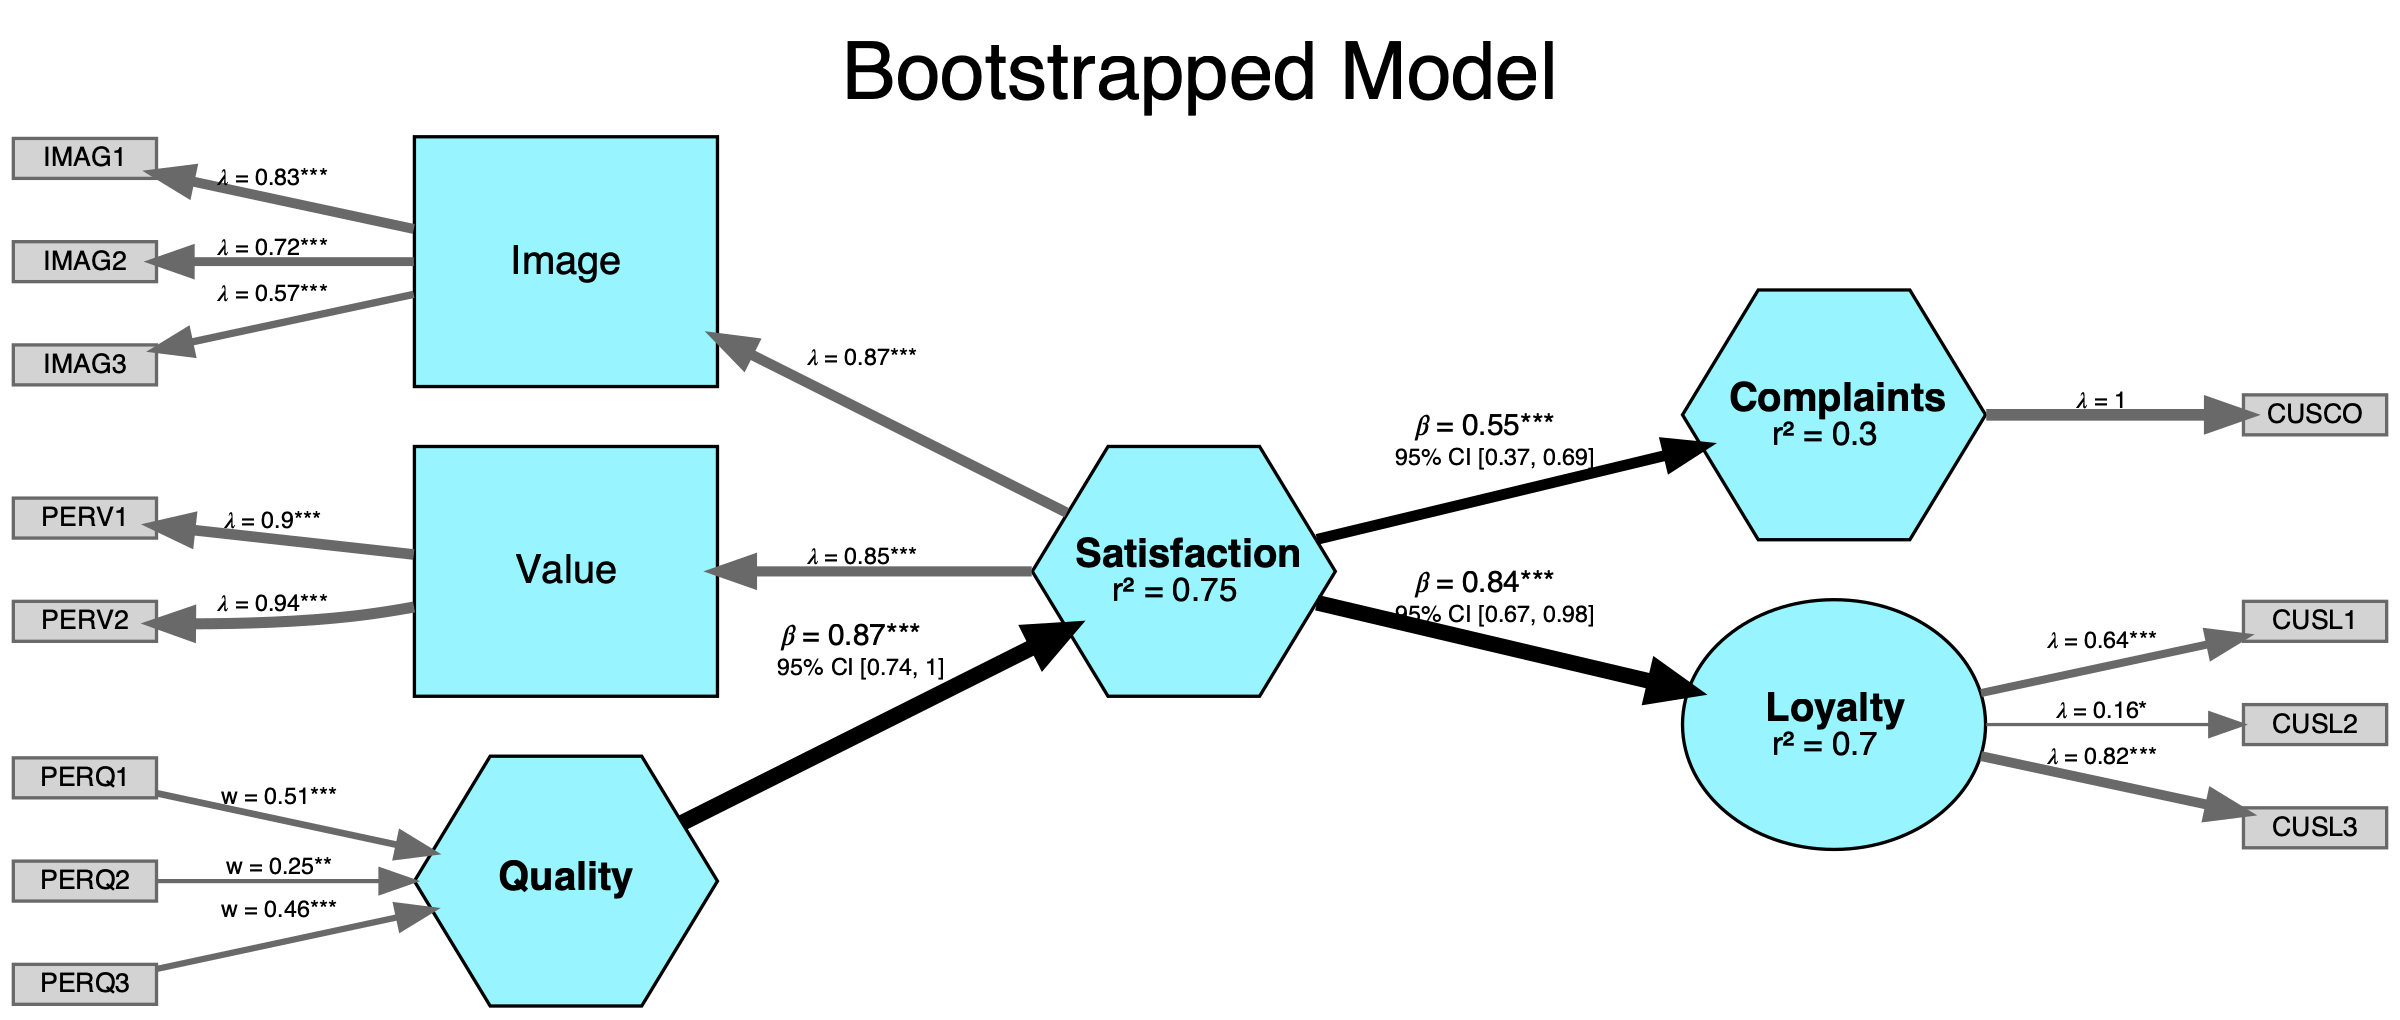
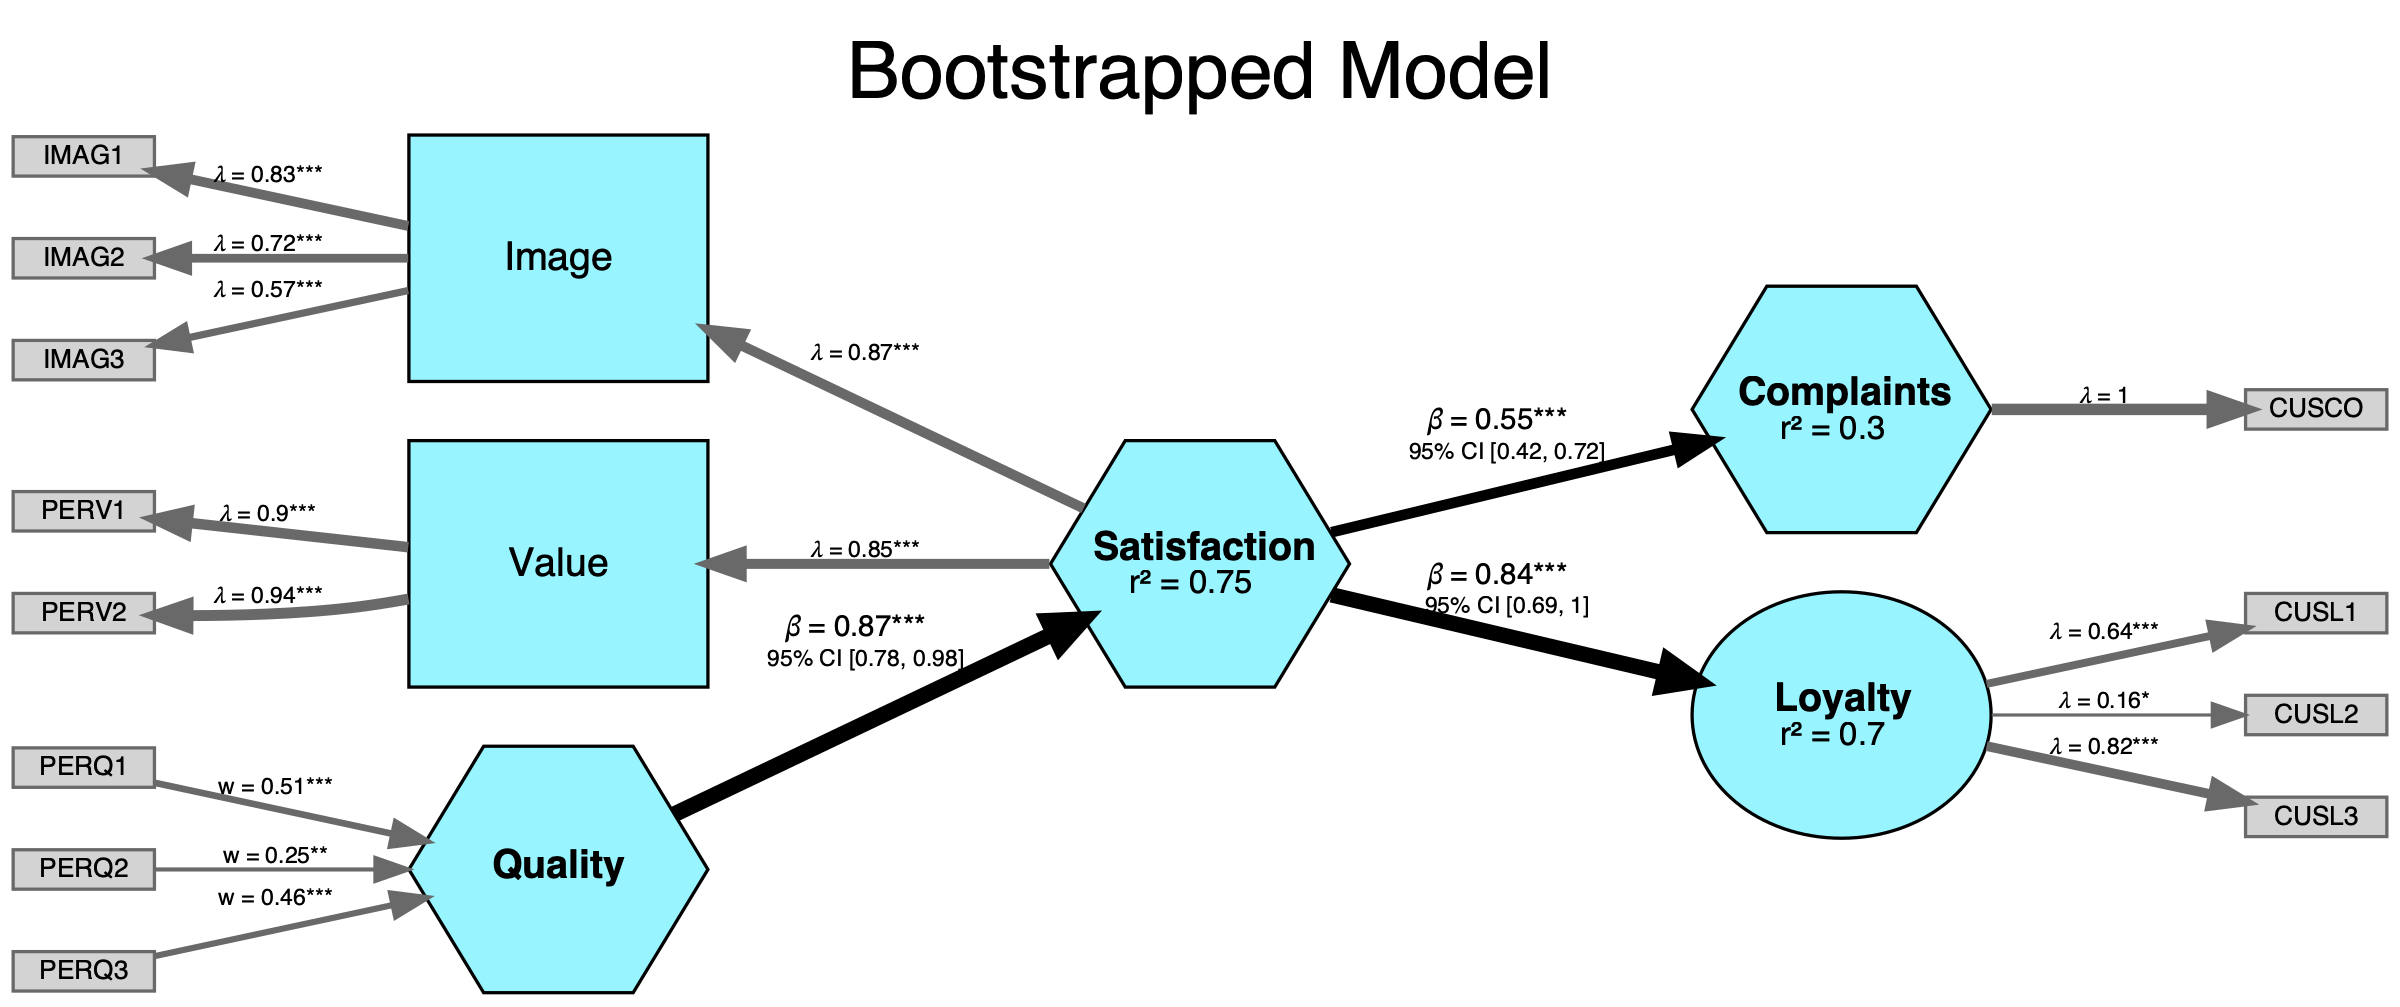
version 2.3.4

diff --git a/inst/doc/SEMinR.html b/inst/doc/SEMinR.html
@@ -298,17 +298,23 @@ overflow-y: auto;
 border: 1px solid #ddd;
 border-radius: 4px;
 }
-.tabset-dropdown > .nav-tabs > li.active:before, .tabset-dropdown > .nav-tabs.nav-tabs-open:before {
-content: "\e259";
+.tabset-dropdown > .nav-tabs > li.active:before {
+content: "";
 font-family: 'Glyphicons Halflings';
 display: inline-block;
 padding: 10px;
 border-right: 1px solid #ddd;
 }
 .tabset-dropdown > .nav-tabs.nav-tabs-open > li.active:before {
-content: "\e258";
-font-family: 'Glyphicons Halflings';
+content: "";
 border: none;
+}
+.tabset-dropdown > .nav-tabs.nav-tabs-open:before {
+content: "";
+font-family: 'Glyphicons Halflings';
+display: inline-block;
+padding: 10px;
+border-right: 1px solid #ddd;
 }
 .tabset-dropdown > .nav-tabs > li.active {
 display: block;
@@ -548,8 +554,8 @@ to the mobile phone market (Tenenhaus et al. 2005).</p>
 <p>You can see a description and sample of what is in
 <code>mobi</code>:</p>
 <pre class="r"><code>dim(mobi)
-#&gt; [1] 250  24</code></pre>
-<pre class="r"><code>head(mobi)
+#&gt; [1] 250  24
+head(mobi)
 #&gt;   CUEX1 CUEX2 CUEX3 CUSA1 CUSA2 CUSA3 CUSCO CUSL1 CUSL2 CUSL3 IMAG1 IMAG2 IMAG3
 #&gt; 1     7     7     6     6     4     7     7     6     5     6     7     5     5
 #&gt; 2    10    10     9    10    10     8    10    10     2    10    10     9    10
@@ -852,14 +858,14 @@ mobi_pls &lt;- estimate_pls(
   inner_weights = path_weighting
 )
 #&gt; Generating the seminr model
-#&gt; All 250 observations are valid.</code></pre>
-<pre class="r"><code>
+#&gt; All 250 observations are valid.
+
 mobi_cfa &lt;- estimate_cfa(
   data = mobi,
   measurement_model = as.reflective(mobi_mm)
 )
-#&gt; Generating the seminr model for CFA</code></pre>
-<pre class="r"><code>
+#&gt; Generating the seminr model for CFA
+
 mobi_cbsem &lt;- estimate_cbsem(
   data = mobi,
   measurement_model = as.reflective(mobi_mm),
@@ -963,7 +969,7 @@ and <span class="math inline">\(rho_{A}\)</span> (Dijkstra and Henseler
 </ol>
 <pre class="r"><code>summary(mobi_pls)
 #&gt; 
-#&gt; Results from  package seminr (2.3.3)
+#&gt; Results from  package seminr (2.3.4)
 #&gt; 
 #&gt; Path Coefficients:
 #&gt;                   Satisfaction
@@ -1122,13 +1128,13 @@ mobi_pls &lt;- estimate_pls(data = mobi,
                         measurement_model = mobi_mm,
                         structural_model = mobi_sm)
 #&gt; Generating the seminr model
-#&gt; All 250 observations are valid.</code></pre>
-<pre class="r"><code># Load data, assemble model, and bootstrap
+#&gt; All 250 observations are valid.
+# Load data, assemble model, and bootstrap
 boot_seminr_model &lt;- bootstrap_model(seminr_model = mobi_pls,
                                     nboot = 50, cores = 2, seed = NULL)
 #&gt; Bootstrapping model using seminr...
-#&gt; SEMinR Model successfully bootstrapped</code></pre>
-<pre class="r"><code>
+#&gt; SEMinR Model successfully bootstrapped
+
 # Calculate the 5% confidence interval for mediated path Image -&gt; Expectation -&gt; Satisfaction
 specific_effect_significance(boot_seminr_model = boot_seminr_model,
                              from = &quot;Image&quot;,
@@ -1136,19 +1142,19 @@ specific_effect_significance(boot_seminr_model = boot_seminr_model,
                              to = &quot;Complaints&quot;,
                              alpha = 0.05)
 #&gt;  Original Est. Bootstrap Mean   Bootstrap SD        T Stat.        2.5% CI 
-#&gt;    0.016670348    0.014922208    0.012477160    1.336069062   -0.007155839 
+#&gt;     0.01667035     0.01349090     0.01242057     1.34215596    -0.01805218 
 #&gt;       97.5% CI 
-#&gt;    0.035282514</code></pre>
-<pre class="r"><code>
+#&gt;     0.03622357
+
 # Calculate the 10% confidence interval for direct path Image -&gt; Satisfaction
 specific_effect_significance(boot_seminr_model = boot_seminr_model,
                              from = &quot;Image&quot;,
                              to = &quot;Satisfaction&quot;,
                              alpha = 0.10)
 #&gt;  Original Est. Bootstrap Mean   Bootstrap SD        T Stat.          5% CI 
-#&gt;      0.1787395      0.1909208      0.0459302      3.8915460      0.1120980 
+#&gt;     0.17873950     0.19345437     0.05056609     3.53476991     0.12213413 
 #&gt;         95% CI 
-#&gt;      0.2493507</code></pre>
+#&gt;     0.28424520</code></pre>
 </div>
 <div id="reporting-data-descriptive-statistics-and-construct-descriptive-statistics" class="section level2">
 <h2>Reporting data descriptive statistics and construct descriptive
@@ -1193,8 +1199,8 @@ pls_model &lt;- estimate_pls(
 #&gt; Generating the seminr model
 #&gt; Generating the seminr model
 #&gt; All 250 observations are valid.
-#&gt; All 250 observations are valid.</code></pre>
-<pre class="r"><code>boot_estimates &lt;- bootstrap_model(pls_model, nboot = 100, cores = 1)
+#&gt; All 250 observations are valid.
+boot_estimates &lt;- bootstrap_model(pls_model, nboot = 100, cores = 1)
 #&gt; Bootstrapping model using seminr...
 #&gt; SEMinR Model successfully bootstrapped</code></pre>
 <p>When we have a model, we can plot it and save the plot to a file.</p>

diff --git a/README.md b/README.md
@@ -5,7 +5,7 @@
 
 <!-- ![Build Status](https://travis-ci.org/sem-in-r/seminr.svg?branch=master) -->
 
-[![CRAN\_Status\_Badge](https://www.r-pkg.org/badges/version/seminr)](https://cran.r-project.org/package=seminr)
+[![CRAN_Status_Badge](https://www.r-pkg.org/badges/version/seminr)](https://cran.r-project.org/package=seminr)
 [![metacran
 downloads](https://cranlogs.r-pkg.org/badges/grand-total/seminr)](https://cran.r-project.org/package=seminr)
 
@@ -14,24 +14,24 @@ models (SEM). It allows estimation using either covariance-based SEM
 (CBSEM, such as LISREL/Lavaan), or Partial Least Squares Path Modeling
 (PLS-PM, such as SmartPLS/semPLS).
 
--   [First Look](#first-look)
--   [Installation](#installation)
--   [Usage and Examples](#usage-and-examples)
--   [Documentation](#documentation)
--   [Partner Projects](#partner-projects)
--   [Contact Us](#contact-us)
--   [About Us](#about-us)
+- [First Look](#first-look)
+- [Installation](#installation)
+- [Usage and Examples](#usage-and-examples)
+- [Documentation](#documentation)
+- [Partner Projects](#partner-projects)
+- [Contact Us](#contact-us)
+- [About Us](#about-us)
 
 ## First Look
 
 Main features of using SEMinR:
 
--   A *natural* feeling, *domain-specific* language to build and
-    estimate SEMs in R
--   *High-level functions* to quickly specify interactions and
-    complicated structural models
--   *Modular design* of models that promotes reuse of model components
--   Encourages *best practices* by use of smart defaults and warnings
+- A *natural* feeling, *domain-specific* language to build and estimate
+  SEMs in R
+- *High-level functions* to quickly specify interactions and complicated
+  structural models
+- *Modular design* of models that promotes reuse of model components
+- Encourages *best practices* by use of smart defaults and warnings
 
 Take a look at the easy syntax and modular design:
 
@@ -71,29 +71,28 @@ save_plot("myfigure.pdf")
 
 SEMinR allows various estimation methods for constructs and SEMs:
 
--   Covariance-based Structural Equation Modeling (CBSEM)
-    -   *Covariance-based estimation* of SEM using the popular
-        [Lavaan](https://github.com/yrosseel/lavaan) package
-    -   Currently supports mediation and moderation models with
-        constructs
-    -   Easily *specify interactions* between constructs
-    -   Adds ten Berge *factor score extraction* to get same correlation
-        patterns as latent factors
-    -   Adds *VIF* and other validity assessments
--   Confirmatory Factor Analysis (CFA) using Lavaan
-    -   Uses [Lavaan](https://github.com/yrosseel/lavaan) package and
-        returns results and syntax
-    -   Adds ten Berge *factor score extraction* to get same correlation
-        patterns as latent factors
--   Partial Least Squares Path Modeling (PLS-PM)
-    -   Uses non-parametric *variance-based estimation* to construct
-        *composites* and *common-factors*
-    -   Automatically *estimates using Consistent PLS (PLSc)* when
-        emulating reflective common factors
-    -   Adjusts for known biases in interaction terms in PLS models
-    -   Continuously tested against leading PLS-PM software to ensure
-        parity of outcomes: SmartPLS, ADANCO, semPLS, and matrixpls
-    -   *High performance, multi-core* bootstrapping function
+- Covariance-based Structural Equation Modeling (CBSEM)
+  - *Covariance-based estimation* of SEM using the popular
+    [Lavaan](https://github.com/yrosseel/lavaan) package
+  - Currently supports mediation and moderation models with constructs
+  - Easily *specify interactions* between constructs
+  - Adds ten Berge *factor score extraction* to get same correlation
+    patterns as latent factors
+  - Adds *VIF* and other validity assessments
+- Confirmatory Factor Analysis (CFA) using Lavaan
+  - Uses [Lavaan](https://github.com/yrosseel/lavaan) package and
+    returns results and syntax
+  - Adds ten Berge *factor score extraction* to get same correlation
+    patterns as latent factors
+- Partial Least Squares Path Modeling (PLS-PM)
+  - Uses non-parametric *variance-based estimation* to construct
+    *composites* and *common-factors*
+  - Automatically *estimates using Consistent PLS (PLSc)* when emulating
+    reflective common factors
+  - Adjusts for known biases in interaction terms in PLS models
+  - Continuously tested against leading PLS-PM software to ensure parity
+    of outcomes: SmartPLS, ADANCO, semPLS, and matrixpls
+  - *High performance, multi-core* bootstrapping function
 
 Researchers can now create a SEM and estimate it using different
 techniques (CBSEM, PLS-PM).
@@ -359,50 +358,50 @@ installation.
 
 Model Specification:
 
--   [seminr-cbsem-cfa-ecsi](demo/seminr-cbsem-cfa-ecsi.R): Conduct
-    confirmatory model building using CFA and CBSEM
--   [seminr-pls-ecsi](demo/seminr-pls-ecsi.R): Conduct PLS path modeling
--   [seminr-pls-interaction](demo/seminr-pls-interaction.R): Define
-    interactions between constructs in SEM models
--   [seminr-pls-higher\_order](demo/seminr-pls-higher_order.R): Define
-    higher-order composites for PLS models
--   [seminr-pls-mga](demo/seminr-pls-mga.R): Assess structural
-    differences between subgroups using PLS-MGA
--   [seminr-plsc-ecsi](demo/seminr-plsc-ecsi.R): Run PLSc to emulate
-    common factors using in PLSc
+- [seminr-cbsem-cfa-ecsi](demo/seminr-cbsem-cfa-ecsi.R): Conduct
+  confirmatory model building using CFA and CBSEM
+- [seminr-pls-ecsi](demo/seminr-pls-ecsi.R): Conduct PLS path modeling
+- [seminr-pls-interaction](demo/seminr-pls-interaction.R): Define
+  interactions between constructs in SEM models
+- [seminr-pls-higher_order](demo/seminr-pls-higher_order.R): Define
+  higher-order composites for PLS models
+- [seminr-pls-mga](demo/seminr-pls-mga.R): Assess structural differences
+  between subgroups using PLS-MGA
+- [seminr-plsc-ecsi](demo/seminr-plsc-ecsi.R): Run PLSc to emulate
+  common factors using in PLSc
 
 Model Visualization:
 
--   [seminr-dot-graph](demo/seminr-pls-dot-graph.R): Create a plot from
-    a SEM model
+- [seminr-dot-graph](demo/seminr-pls-dot-graph.R): Create a plot from a
+  SEM model
 
 Syntax Style:
 
--   [seminr-alternative-models](demo/seminr-alternative-models.R): Reuse
-    measurement and structural components in multiple models
--   [seminr-style-contained](demo/seminr-style-contained.R): Create and
-    execute a SEM model in one function call
+- [seminr-alternative-models](demo/seminr-alternative-models.R): Reuse
+  measurement and structural components in multiple models
+- [seminr-style-contained](demo/seminr-style-contained.R): Create and
+  execute a SEM model in one function call
 
 ## Sister Projects
 
--   [seminrstudio](https://github.com/sem-in-r/seminrstudio): A set of
-    addins for RStudio to simplify using SEMinR.
+- [seminrstudio](https://github.com/sem-in-r/seminrstudio): A set of
+  addins for RStudio to simplify using SEMinR.
 
 ## Partner Projects
 
 We communicate and collaborate with several other open-source projects
 on SEM related issues.
 
--   [plspm package for R](https://github.com/gastonstat/plspm): an early
-    and limited PLS path modeling package for R that inspired the
-    development of SEMinR, among others; it is no longer maintained.
--   [plspm package for
-    Python](https://github.com/GoogleCloudPlatform/plspm-python): a
-    well-maintained PLS modeling pakage for Python; it is tested against
-    SEMinR and borrows some syntactic ideas from SEMinR.
--   [cSEM](https://github.com/FloSchuberth/cSEM): a well-maintained and
-    comprehensive composite analysis project implementing PLS and GSCA
-    for R, using Lavaan style syntax
+- [plspm package for R](https://github.com/gastonstat/plspm): an early
+  and limited PLS path modeling package for R that inspired the
+  development of SEMinR, among others; it is no longer maintained.
+- [plspm package for
+  Python](https://github.com/GoogleCloudPlatform/plspm-python): a
+  well-maintained PLS modeling pakage for Python; it is tested against
+  SEMinR and borrows some syntactic ideas from SEMinR.
+- [cSEM](https://github.com/FloSchuberth/cSEM): a well-maintained and
+  comprehensive composite analysis project implementing PLS and GSCA for
+  R, using Lavaan style syntax
 
 ## Contact Us
 
@@ -420,19 +419,20 @@ features for consideration.
 
 Primary Authors:
 
--   [Soumya Ray](https://soumyaray.com)
--   [Nicholas Danks](https://nicholasdanks.com)
--   [André Calero Valdez](https://calerovaldez.com/)
+- [Soumya Ray](https://soumyaray.com)
+- [Nicholas
+  Danks](https://www.tcd.ie/business/people/faculty-professors/danksn/)
+- [André Calero Valdez](https://calerovaldez.com/)
 
 Key Contributors:
 
--   [James Uanhoro](https://www.jamesuanhoro.com/) (ten Berge factor
-    extraction, advice on covariance-based methods)
--   [Arturo Heynar Cano
-    Bejar](https://www.iss.nthu.edu.tw/PhD/PhD-Students/arturo-h-cano-bejar)
-    (evaluation and testing of PLS and CBSEM models)
--   [Johannes Nakayama](https://github.com/JohannesNakayama)
-    (contributions to the model visualization functionality)
+- [James Uanhoro](https://www.jamesuanhoro.com/) (ten Berge factor
+  extraction, advice on covariance-based methods)
+- [Arturo Heynar Cano
+  Bejar](https://www.iss.nthu.edu.tw/PhD/PhD-Students/arturo-h-cano-bejar)
+  (evaluation and testing of PLS and CBSEM models)
+- [Johannes Nakayama](https://github.com/JohannesNakayama)
+  (contributions to the model visualization functionality)
 
 And many thanks to the growing number of folks who have reached out with
 feature requests, bug reports, and encouragement. You keep us going!
